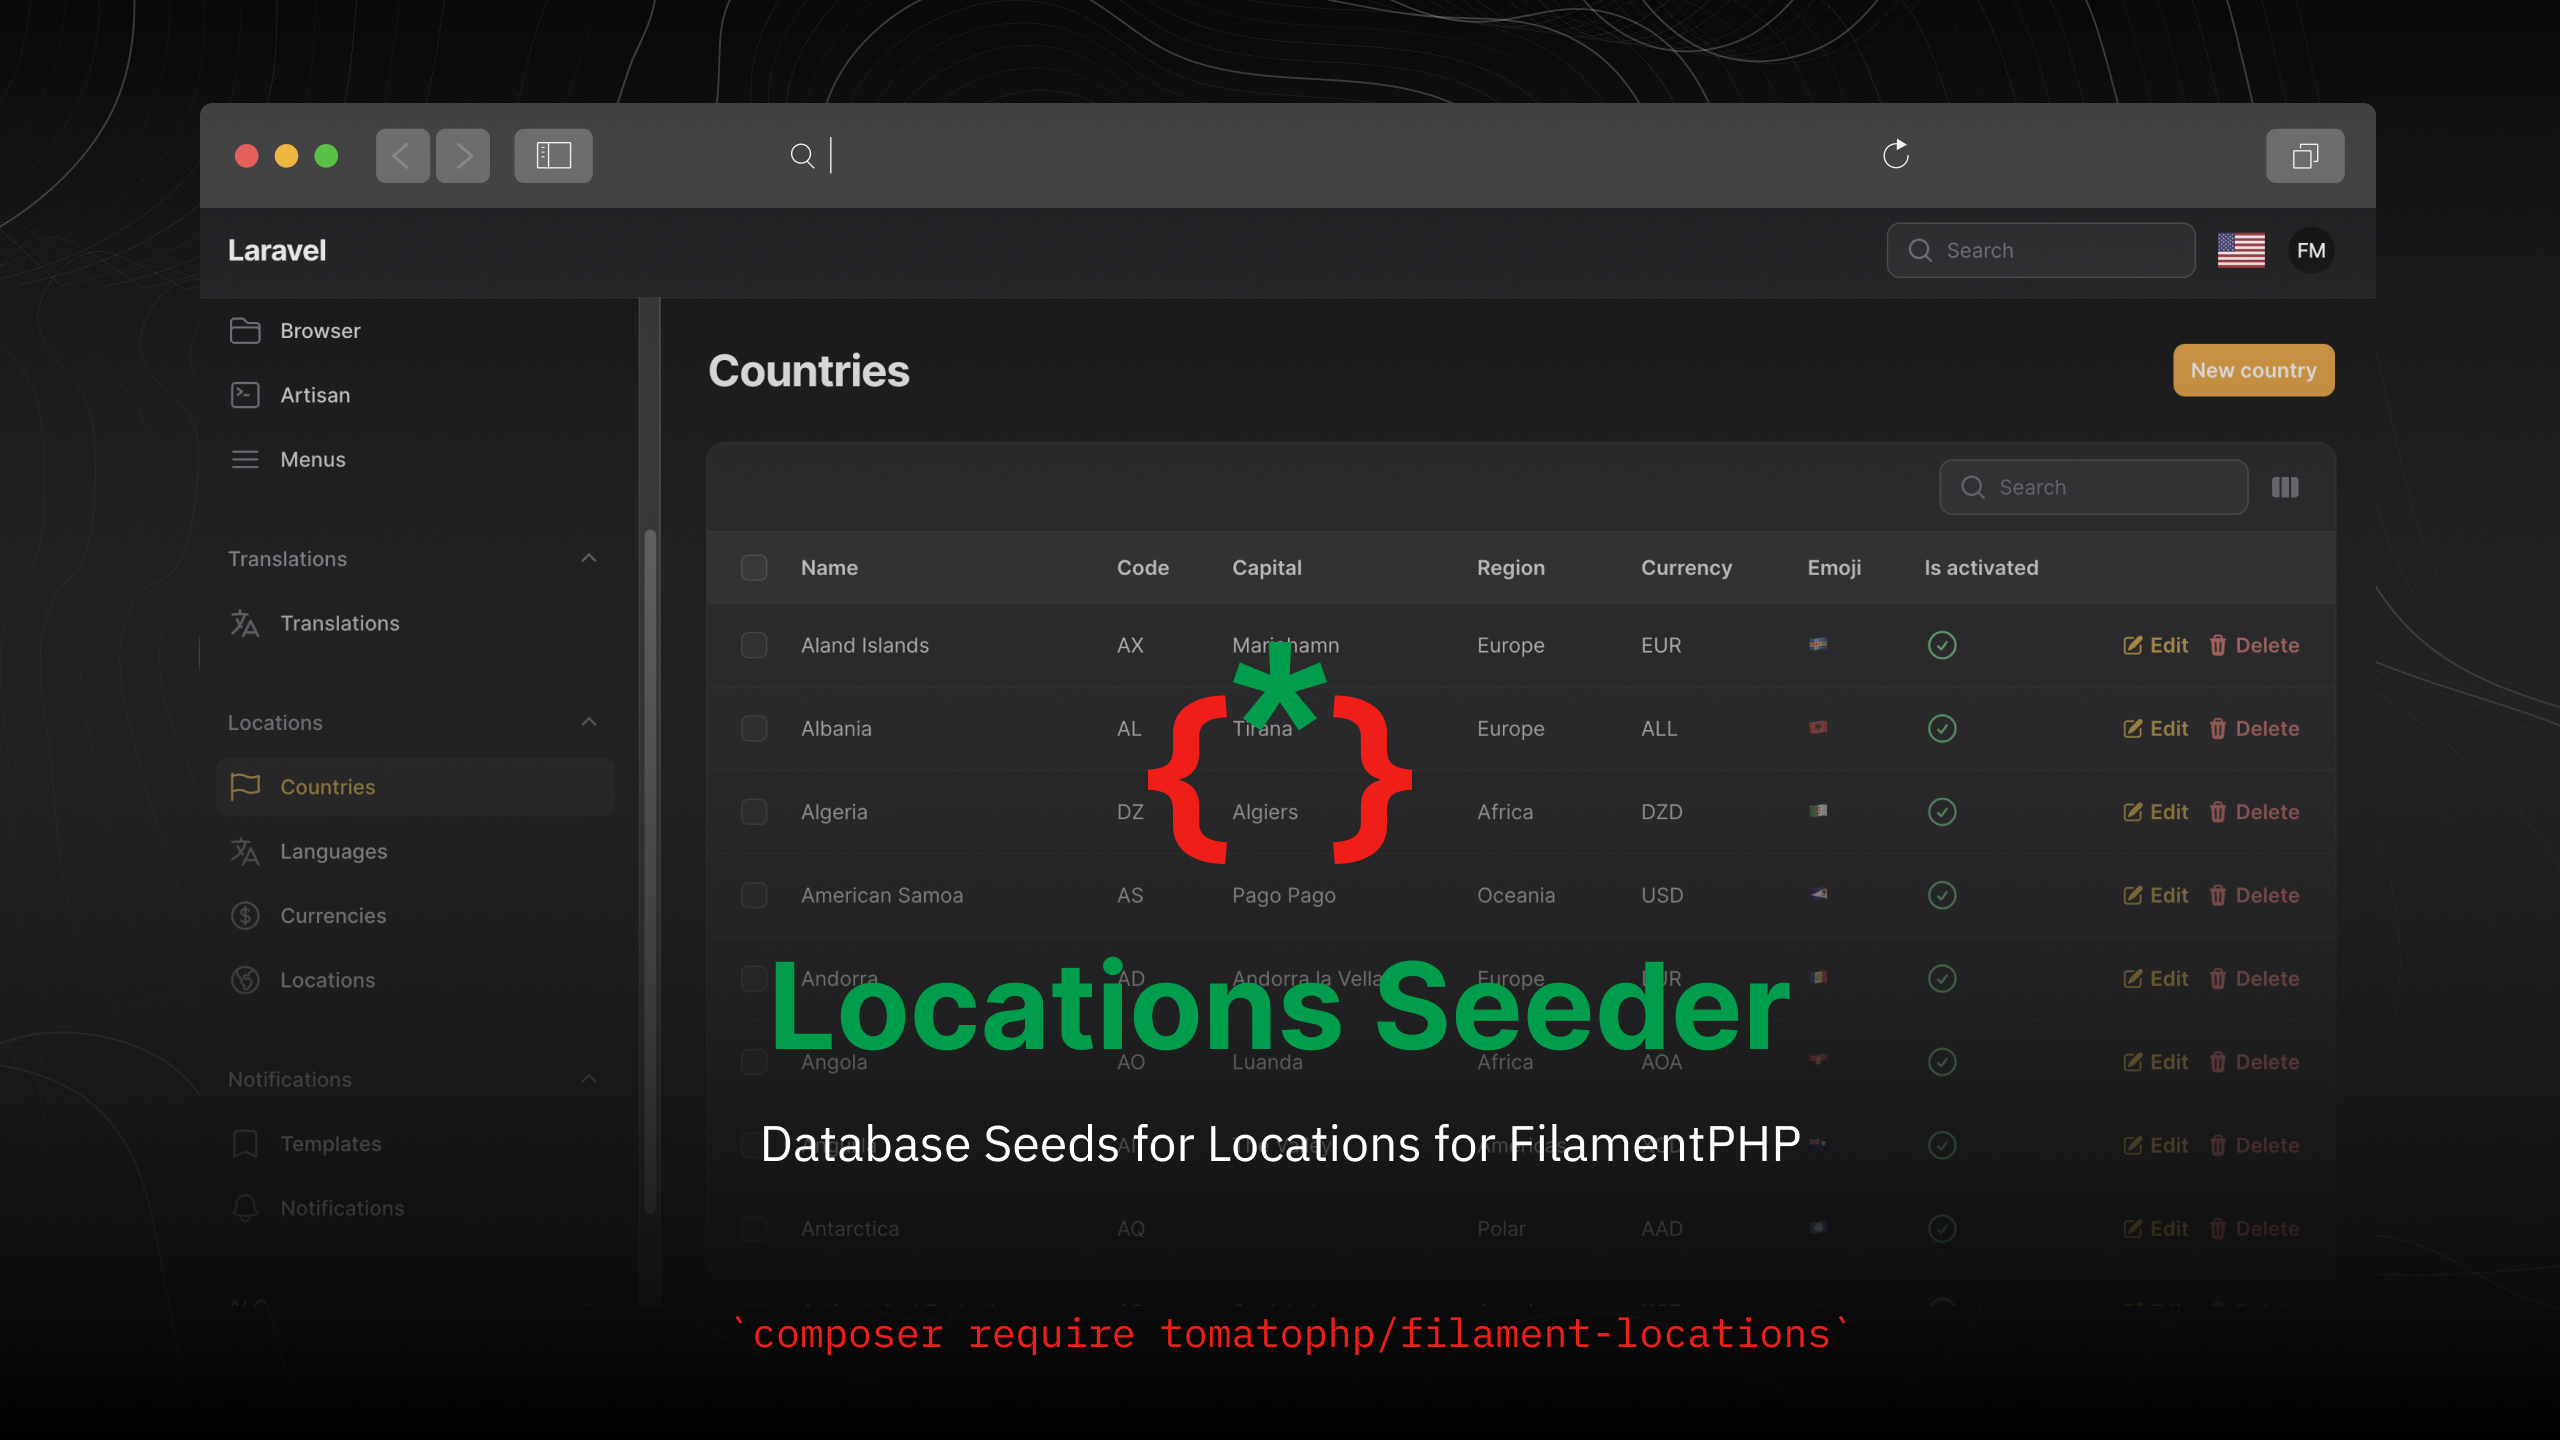
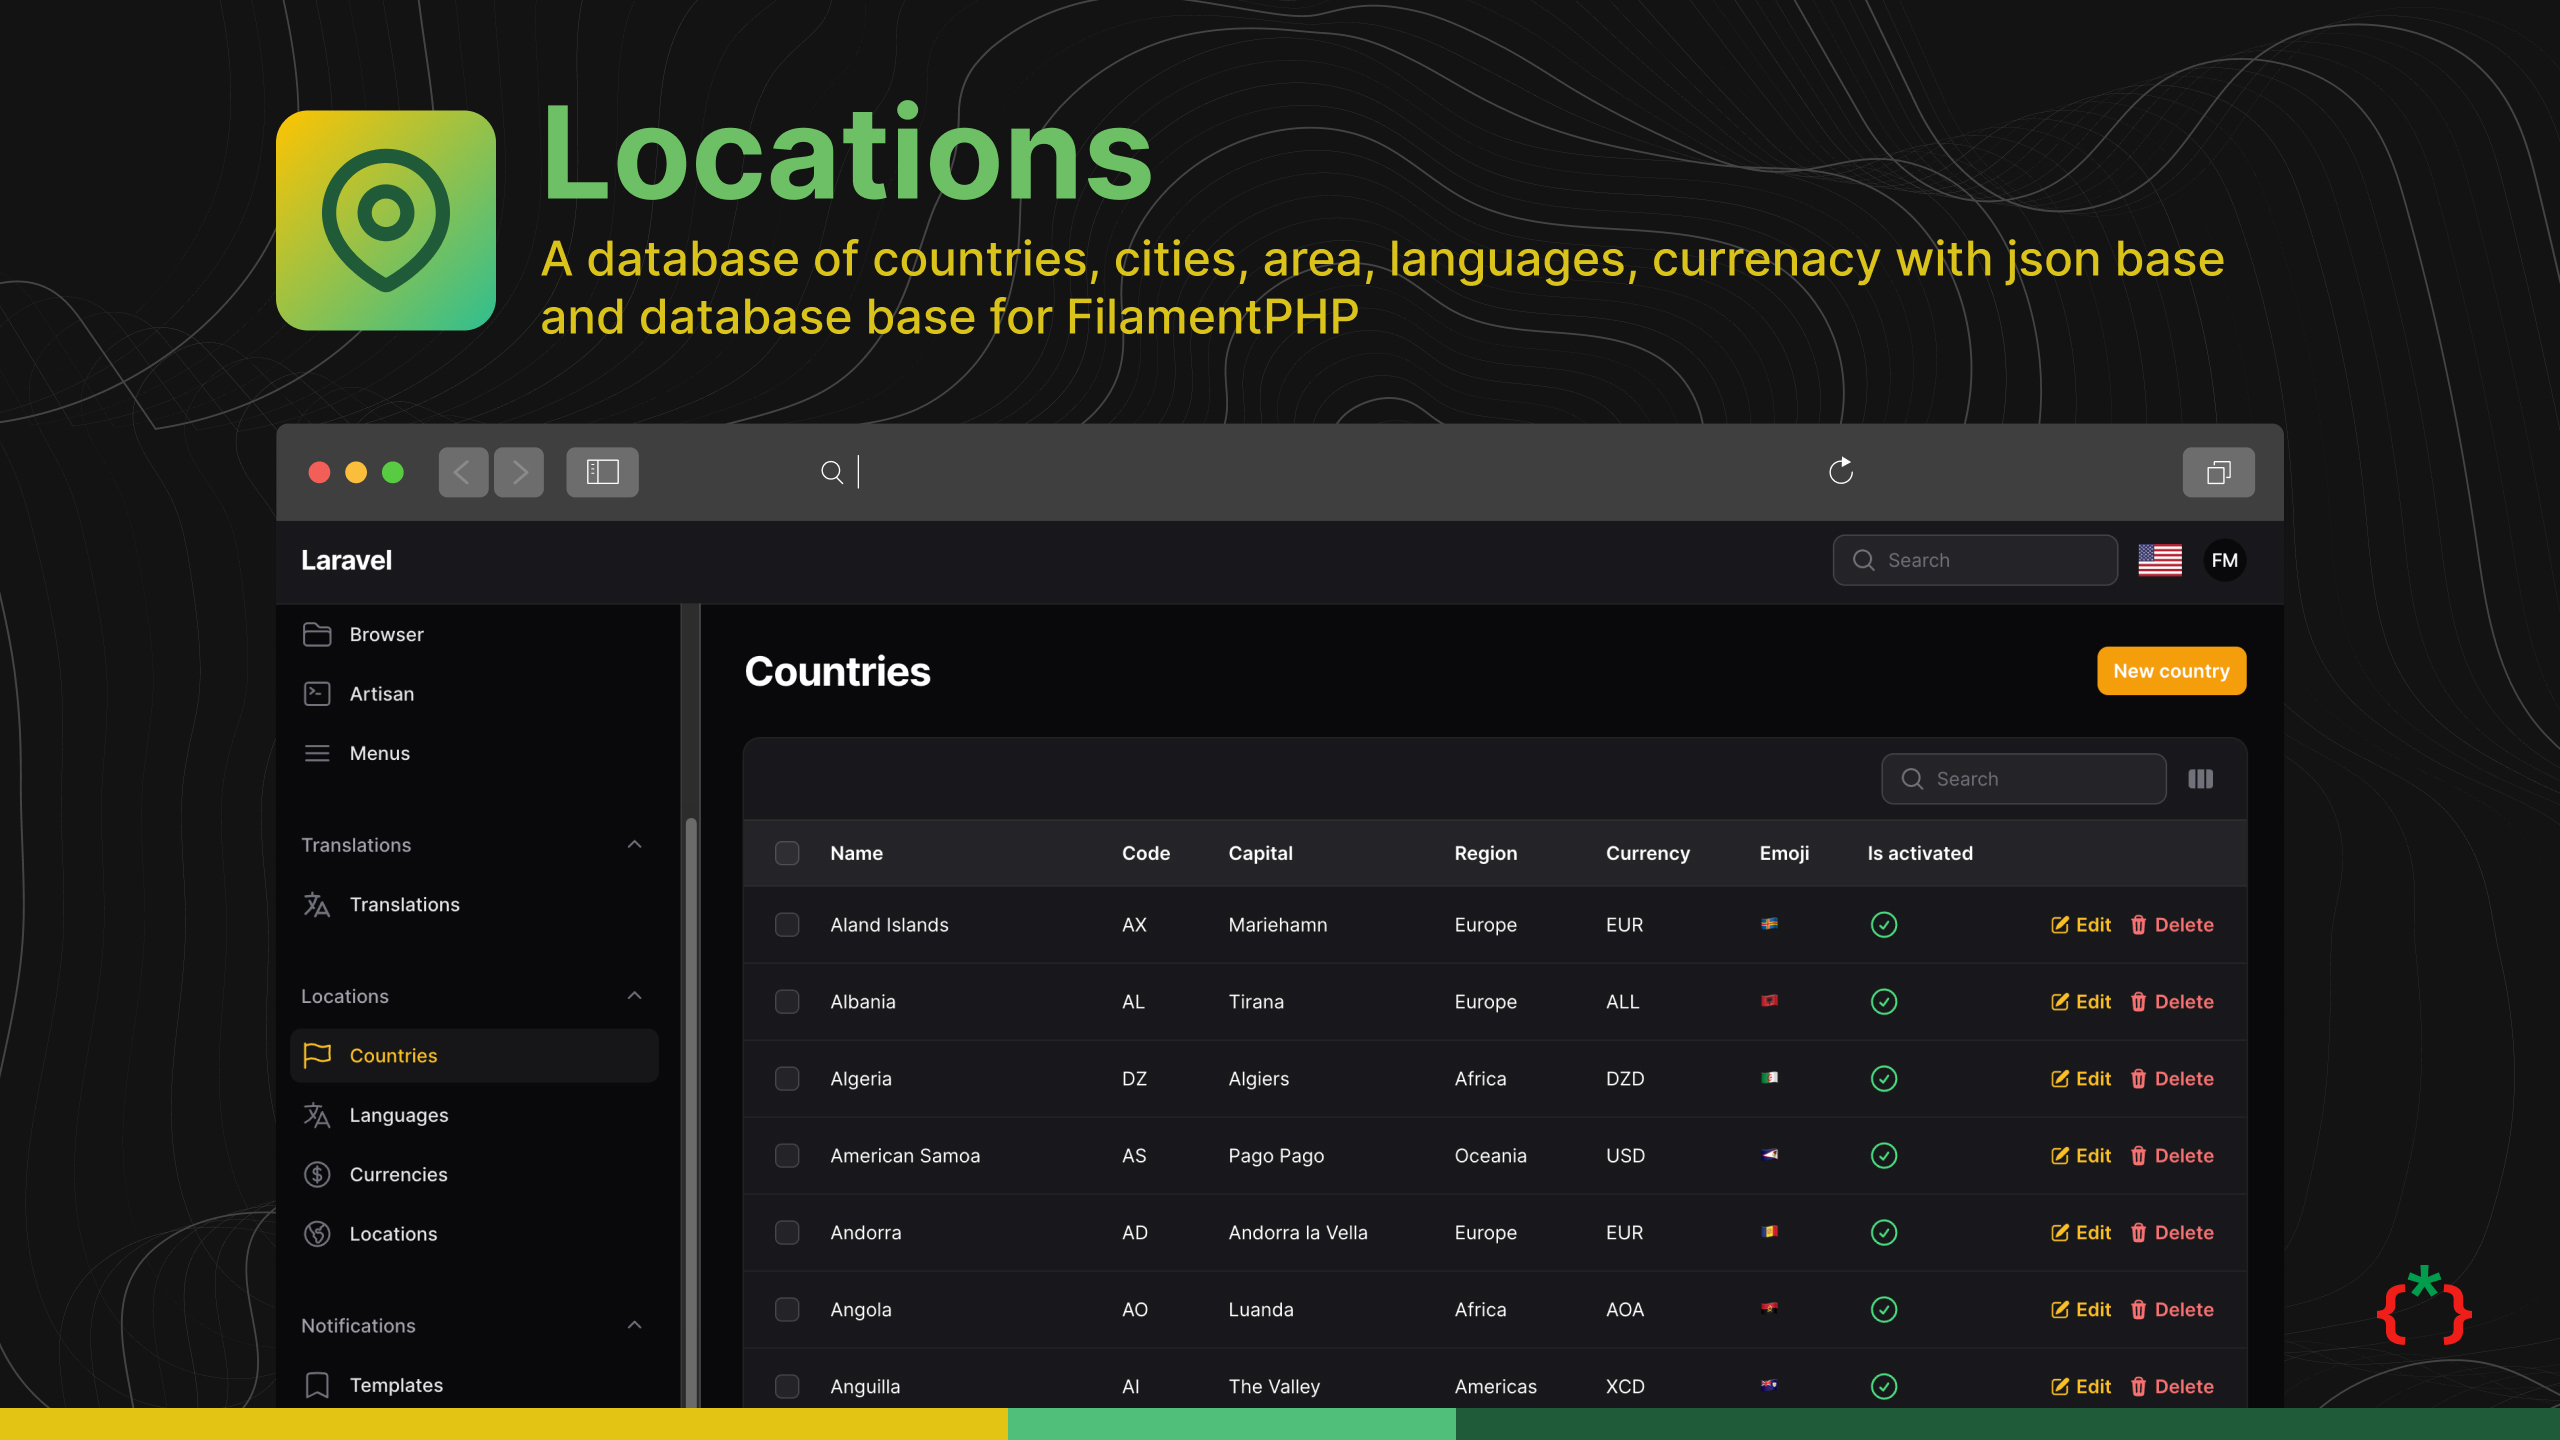
v2

diff --git a/README.md b/README.md
@@ -1,12 +1,15 @@
 ![Screenshot](https://raw.githubusercontent.com/tomatophp/filament-locations/master/arts/3x1io-tomato-locations.jpg)
 
-# Filament Locations Seeder
+# Filament Locations
 
+[![Dependabot Updates](https://github.com/tomatophp/filament-locations/actions/workflows/dependabot/dependabot-updates/badge.svg)](https://github.com/tomatophp/filament-locations/actions/workflows/dependabot/dependabot-updates)
+[![PHP Code Styling](https://github.com/tomatophp/filament-locations/actions/workflows/fix-php-code-styling.yml/badge.svg)](https://github.com/tomatophp/filament-locations/actions/workflows/fix-php-code-styling.yml)
+[![Tests](https://github.com/tomatophp/filament-locations/actions/workflows/tests.yml/badge.svg)](https://github.com/tomatophp/filament-locations/actions/workflows/tests.yml)
 [![Latest Stable Version](https://poser.pugx.org/tomatophp/filament-locations/version.svg)](https://packagist.org/packages/tomatophp/filament-locations)
 [![License](https://poser.pugx.org/tomatophp/filament-locations/license.svg)](https://packagist.org/packages/tomatophp/filament-locations)
 [![Downloads](https://poser.pugx.org/tomatophp/filament-locations/d/total.svg)](https://packagist.org/packages/tomatophp/filament-locations)
 
-Database Seeds for Countries / Cities / Areas / Languages / Currancy with ready to use resources for FilamentPHP
+A database of countries, cities, area, languages, currenacy with json base and database base for FilamentPHP
 
 ## Screenshots
 

diff --git a/3x1io-tomato-locations.md b/3x1io-tomato-locations.md
@@ -1,9 +1,9 @@
 ---
-name: Locations Seeder
+name: Locations
 slug: 3x1io-tomato-locations
 author_slug: 3x1io
 categories: [developer-tool]
-description: Database Seeds for Locations for FilamentPHP
+description: A database of countries, cities, area, languages, currenacy with json base and database base for FilamentPHP.
 discord_url: 
 docs_url: https://raw.githubusercontent.com/tomatophp/filament-locations/master/README.md
 github_repository: tomatophp/filament-locations
